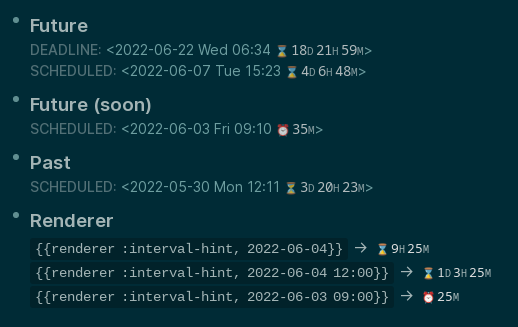
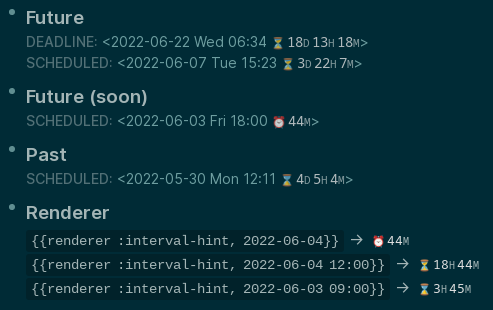
Fix issue where hourglass future/past emojis were reversed. Minor optimizations.

diff --git a/index.js b/index.js
@@ -77,9 +77,9 @@ const TIME_SELECTOR = '.timestamp time';
 const STYLES = `
   .${MAIN_CLASS} { margin-left: 0.25em; padding-left: 0px; font-family: monospace; }
 
-  .${FUTURE_CLASS} > .${LABEL_CLASS}::before { content: '⌛'; }
+  .${FUTURE_CLASS} > .${LABEL_CLASS}::before { content: '⏳'; }
   .${FUTURE_CLASS}.${SHORT_CLASS} > .${LABEL_CLASS}::before { content: '⏰'; }
-  .${PAST_CLASS} > .${LABEL_CLASS}::before { content: '⏳'; }
+  .${PAST_CLASS} > .${LABEL_CLASS}::before { content: '⌛'; }
 
   .${MAIN_CLASS} > * { color: var(--ls-secondary-text-color); }
   .${MAIN_CLASS} > ::after ,
@@ -146,8 +146,8 @@ function generateIntervals(sec, minSec) {
 }
 
 
-function updateHint(el) {
-  const now = msToSecs(new Date());
+function updateHint(el, now) {
+  if (!now) now = msToSecs(new Date());
   const then = parseInt(el.getAttribute(TIMESTAMP_ATTRIBUTE));
   const diff = Math.abs(then - now);
   const isFuture = then >= now;
@@ -180,7 +180,8 @@ function updateHint(el) {
 
 
 function updateHints() {
-  appContainerEl.querySelectorAll('.' + MAIN_CLASS).forEach(updateHint);
+  const now = msToSecs(new Date());
+  appContainerEl.querySelectorAll('.' + MAIN_CLASS).forEach(hint => updateHint(hint, now));
 }
 
 
@@ -231,7 +232,7 @@ function handleRenderer({ slot, payload: { arguments } }) {
     updateHint(el);
     template = el.outerHTML;
   }
-  logseq.provideUI({ key: 'lsp-interval-hints-' + slot, reset: true, slot, template });
+  logseq.provideUI({ key: 'lsp-interval-hints-' + slot, slot, template, reset: true });
 }
 
 

diff --git a/README.md b/README.md
@@ -46,9 +46,9 @@ version of the default style in `custom.css`.
 ```css
 .lsp-interval-hints { margin-left: 0.25em; padding-left: 0px; font-family: monospace; }
 
-.lsp-interval-hints-future::before { content: '⌛'; }
-.lsp-interval-hints-future.lsp-interval-hints-short::before { content: '⏰'; }
-.lsp-interval-hints-past::before { content: '⏳'; }
+.lsp-interval-hints-future > .lsp-interval-hints-label::before { content: '⏳'; }
+.lsp-interval-hints-future.lsp-interval-hints-short > .lsp-interval-hints-label::before { content: '⏰'; }
+.lsp-interval-hints-past > .lsp-interval-hints-label::before { content: '⌛'; }
 
 .lsp-interval-hints > * { color: var(--ls-secondary-text-color); }
 .lsp-interval-hints > ::after ,
